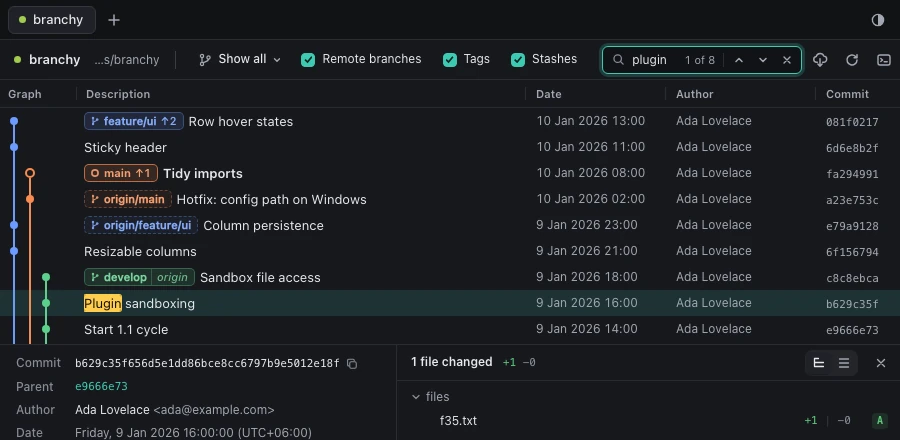
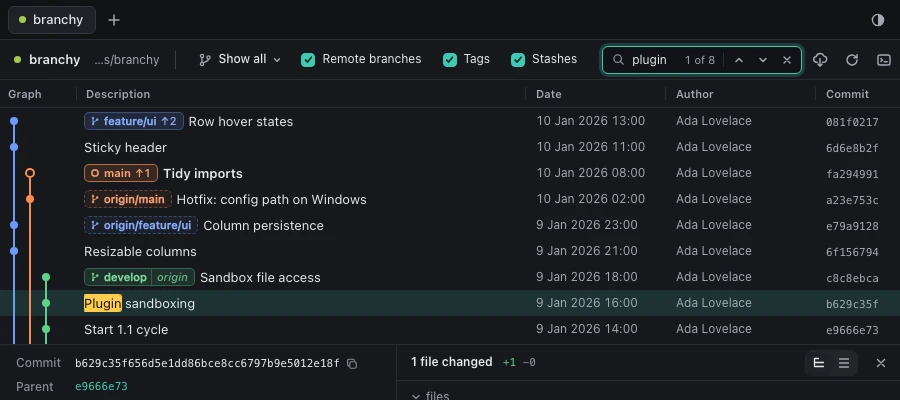
fix(site): the search screenshot stops above the details' author line, so no email address shows

diff --git a/site/public/index.html b/site/public/index.html
@@ -119,7 +119,7 @@
     <figure class="shot">
       <picture>
         <source data-scheme="dark" media="(prefers-color-scheme: dark)" srcset="/img/search-dark.webp">
-        <img src="/img/search-light.webp" width="900" height="440" loading="lazy" decoding="async" alt="Searching for “plugin”: the match is highlighted in the graph, and the selected commit's hash, parent, author, date and changed file are shown below it.">
+        <img src="/img/search-light.webp" width="900" height="400" loading="lazy" decoding="async" alt="Searching for “plugin”: the match is highlighted in the graph, with the selected commit's details and changed files opening below it.">
       </picture>
     </figure>
   </div>
